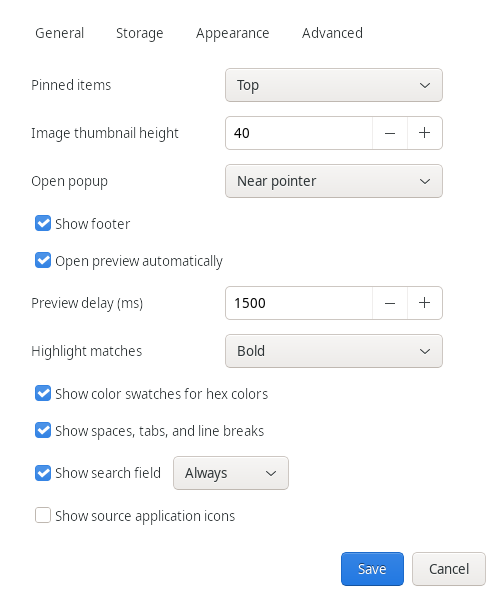
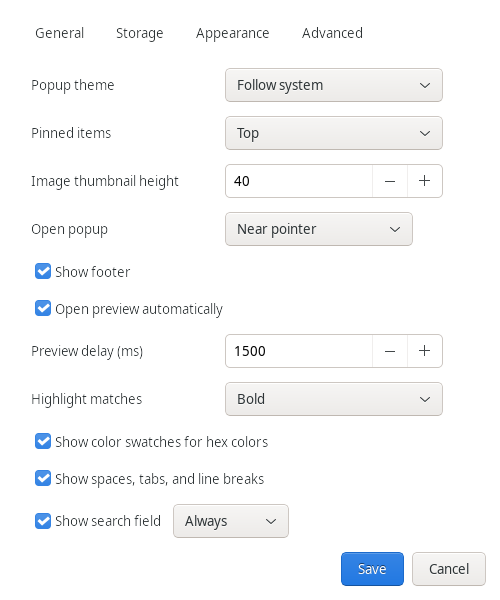
Follow desktop appearance with light and dark popup themes

diff --git a/linuxxy.py b/linuxxy.py
@@ -103,6 +103,9 @@ class App:
         self.window.connect("delete-event", self.hide_window)
         self.window.connect("key-press-event", self.on_key)
         self.install_style()
+        gtk_settings = Gtk.Settings.get_default()
+        gtk_settings.connect("notify::gtk-theme-name", self.system_theme_changed)
+        gtk_settings.connect("notify::gtk-application-prefer-dark-theme", self.system_theme_changed)
         self.popup_layout = Gtk.Box(orientation=Gtk.Orientation.HORIZONTAL, spacing=0)
         self.window.add(self.popup_layout)
         box = Gtk.Box(orientation=Gtk.Orientation.VERTICAL, spacing=0)
@@ -258,35 +261,65 @@ class App:
         return rows
 
     def install_style(self):
-        provider = Gtk.CssProvider()
-        provider.load_from_data(b"""
-            #linuxxy-popup { background: #28292d; border: 1px solid #4a4b50; border-radius: 9px; }
+        theme = self.settings.get("popup_theme")
+        if theme == "system":
+            gtk_settings = Gtk.Settings.get_default()
+            name = (gtk_settings.get_property("gtk-theme-name") or "").lower()
+            dark = gtk_settings.get_property("gtk-application-prefer-dark-theme")
+            theme = "dark" if dark or "dark" in name else "light"
+        colors = ({
+            "popup": "#28292d", "border": "#4a4b50", "muted": "#b8b9bd",
+            "text": "#eeeeee", "selected": "#466ca8", "hover": "#3b3d43",
+            "shortcut": "#a7a8ad", "index": "#aaaaaa", "multi": "#4d624b",
+            "multi_text": "#ffffff", "preview": "#222327", "divider": "#34353a",
+            "preview_muted": "#cccccc", "metadata": "#b6b6ba",
+        } if theme == "dark" else {
+            "popup": "#f3f4f6", "border": "#c6c8cd", "muted": "#64676f",
+            "text": "#25272d", "selected": "#4c78b9", "hover": "#e2e5e9",
+            "shortcut": "#737780", "index": "#747780", "multi": "#d3e8d4",
+            "multi_text": "#244a2b", "preview": "#eceef1", "divider": "#d3d5da",
+            "preview_muted": "#555963", "metadata": "#646870",
+        })
+        css = """
+            #linuxxy-popup { background: @popup@; border: 1px solid @border@; border-radius: 9px; }
+            #linuxxy-popup separator { background: @border@; }
             #linuxxy-search { min-height: 30px; margin: 2px 2px 4px 2px; }
-            #linuxxy-preview-toggle { min-width: 24px; padding: 0 2px; color: #b8b9bd; }
-            #linuxxy-title { color: #b8b9bd; font-size: 12px; }
+            #linuxxy-preview-toggle { min-width: 24px; padding: 0 2px; color: @muted@; }
+            #linuxxy-title { color: @muted@; font-size: 12px; }
             #linuxxy-list, #linuxxy-list > row { background: transparent; }
             #linuxxy-list > row { min-height: 31px; border-radius: 5px; }
-            #linuxxy-list > row label { color: #eeeeee; }
-            box.linuxxy-selected { background-color: #466ca8; border-radius: 5px; color: white; }
-            #linuxxy-footer button { min-height: 24px; padding: 1px 9px; font-size: 12px; color: #eee; }
-            #linuxxy-footer button:hover { background: #3b3d43; border-radius: 5px; }
-            #linuxxy-footer-shortcut { color: #a7a8ad; font-size: 10px; }
-            #linuxxy-index { color: #aaa; font-size: 10px; min-width: 16px; }
-            box.linuxxy-multi-selected { background-color: #4d624b; border-radius: 5px; color: white; }
+            #linuxxy-list > row label { color: @text@; }
+            box.linuxxy-selected { background-color: @selected@; border-radius: 5px; }
+            #linuxxy-list > row box.linuxxy-selected label { color: white; }
+            #linuxxy-footer button { min-height: 24px; padding: 1px 9px; font-size: 12px; color: @text@; }
+            #linuxxy-footer button:hover { background: @hover@; border-radius: 5px; }
+            #linuxxy-footer-shortcut { color: @shortcut@; font-size: 10px; }
+            #linuxxy-index { color: @index@; font-size: 10px; min-width: 16px; }
+            box.linuxxy-multi-selected { background-color: @multi@; border-radius: 5px; }
+            #linuxxy-list > row box.linuxxy-multi-selected label { color: @multi_text@; }
             #linuxxy-color-swatch { border: 1px solid #888; border-radius: 2px; }
-            #linuxxy-preview { background: #222327; border-left: 1px solid #4a4b50; }
-            #linuxxy-preview.left { border-left: none; border-right: 1px solid #4a4b50; }
-            #linuxxy-preview-divider { background: #34353a; }
-            #linuxxy-preview-heading { color: #cccccc; font-size: 11px; }
-            #linuxxy-preview button { color: #cccccc; }
-            #linuxxy-preview-metadata { color: #b6b6ba; font-size: 11px; }
+            #linuxxy-preview { background: @preview@; border-left: 1px solid @border@; }
+            #linuxxy-preview.left { border-left: none; border-right: 1px solid @border@; }
+            #linuxxy-preview-divider { background: @divider@; }
+            #linuxxy-preview-heading { color: @preview_muted@; font-size: 11px; }
+            #linuxxy-preview button { color: @preview_muted@; }
+            #linuxxy-preview-metadata { color: @metadata@; font-size: 11px; }
             #linuxxy-preview textview, #linuxxy-preview textview text {
-                background: #222327; color: #eeeeee;
+                background: @preview@; color: @text@;
             }
-        """)
-        Gtk.StyleContext.add_provider_for_screen(
-            Gdk.Screen.get_default(), provider, Gtk.STYLE_PROVIDER_PRIORITY_APPLICATION
-        )
+        """
+        for key, value in colors.items():
+            css = css.replace(f"@{key}@", value)
+        if not hasattr(self, "style_provider"):
+            self.style_provider = Gtk.CssProvider()
+            Gtk.StyleContext.add_provider_for_screen(
+                Gdk.Screen.get_default(), self.style_provider,
+                Gtk.STYLE_PROVIDER_PRIORITY_APPLICATION)
+        self.style_provider.load_from_data(css.encode())
+
+    def system_theme_changed(self, *_):
+        if self.settings.get("popup_theme") == "system":
+            self.install_style()
 
     def on_clipboard_change(self, *_):
         GLib.idle_add(self.capture, time.monotonic() > self.ignore_own_change_until)
@@ -1435,14 +1468,21 @@ class App:
         sort_by.set_active_id(self.settings.get("sort_by"))
         field(grids["Storage"], 5, "Sort by", sort_by)
 
+        popup_theme = Gtk.ComboBoxText()
+        popup_theme.set_name("linuxxy-popup-theme-setting")
+        for key, label in (("system", "Follow system"), ("light", "Light"),
+                           ("dark", "Dark")):
+            popup_theme.append(key, label)
+        popup_theme.set_active_id(self.settings.get("popup_theme"))
+        field(grids["Appearance"], 0, "Popup theme", popup_theme)
         pins_position = Gtk.ComboBoxText()
         pins_position.append("top", "Top")
         pins_position.append("bottom", "Bottom")
         pins_position.set_active_id(self.settings.get("pins_position"))
-        field(grids["Appearance"], 0, "Pinned items", pins_position)
+        field(grids["Appearance"], 1, "Pinned items", pins_position)
         image_height = Gtk.SpinButton.new_with_range(1, 200, 1)
         image_height.set_value(self.settings.get("image_max_height"))
-        field(grids["Appearance"], 1, "Image thumbnail height", image_height)
+        field(grids["Appearance"], 2, "Image thumbnail height", image_height)
         position = Gtk.ComboBoxText()
         for key, label in (("cursor", "Near pointer"), ("status_icon", "At tray icon"),
                            ("active_window", "Center of active window"),
@@ -1495,30 +1535,30 @@ class App:
 
         position.connect("changed", update_position_controls)
         update_position_controls()
-        field(grids["Appearance"], 2, "Open popup", position_controls)
+        field(grids["Appearance"], 3, "Open popup", position_controls)
         show_footer = Gtk.CheckButton(label="Show footer")
         show_footer.set_active(self.settings.get("show_footer"))
-        grids["Appearance"].attach(show_footer, 0, 3, 2, 1)
+        grids["Appearance"].attach(show_footer, 0, 4, 2, 1)
         auto_preview = Gtk.CheckButton(label="Open preview automatically")
         auto_preview.set_active(self.settings.get("open_preview_automatically"))
-        grids["Appearance"].attach(auto_preview, 0, 4, 2, 1)
+        grids["Appearance"].attach(auto_preview, 0, 5, 2, 1)
         preview_delay = Gtk.SpinButton.new_with_range(200, 100000, 100)
         preview_delay.set_value(self.settings.get("preview_delay_ms"))
         preview_delay.set_sensitive(auto_preview.get_active())
         auto_preview.connect("toggled", lambda button: preview_delay.set_sensitive(button.get_active()))
-        field(grids["Appearance"], 5, "Preview delay (ms)", preview_delay)
+        field(grids["Appearance"], 6, "Preview delay (ms)", preview_delay)
         highlight_match = Gtk.ComboBoxText()
         for key, name in (("bold", "Bold"), ("italic", "Italic"),
                           ("underline", "Underline"), ("color", "Color")):
             highlight_match.append(key, name)
         highlight_match.set_active_id(self.settings.get("highlight_match"))
-        field(grids["Appearance"], 6, "Highlight matches", highlight_match)
+        field(grids["Appearance"], 7, "Highlight matches", highlight_match)
         color_swatch = Gtk.CheckButton(label="Show color swatches for hex colors")
         color_swatch.set_active(self.settings.get("show_hex_color_swatch"))
-        grids["Appearance"].attach(color_swatch, 0, 7, 2, 1)
+        grids["Appearance"].attach(color_swatch, 0, 8, 2, 1)
         special_symbols = Gtk.CheckButton(label="Show spaces, tabs, and line breaks")
         special_symbols.set_active(self.settings.get("show_special_symbols"))
-        grids["Appearance"].attach(special_symbols, 0, 8, 2, 1)
+        grids["Appearance"].attach(special_symbols, 0, 9, 2, 1)
         search_display = Gtk.Box(spacing=8)
         show_search = Gtk.CheckButton(label="Show search field")
         show_search.set_active(self.settings.get("show_search_field"))
@@ -1530,13 +1570,13 @@ class App:
         search_visibility.set_sensitive(show_search.get_active())
         show_search.connect("toggled", lambda button: search_visibility.set_sensitive(button.get_active()))
         search_display.pack_start(search_visibility, False, False, 0)
-        grids["Appearance"].attach(search_display, 0, 9, 2, 1)
+        grids["Appearance"].attach(search_display, 0, 10, 2, 1)
         application_icons = Gtk.CheckButton(label="Show source application icons")
         application_icons.set_active(self.settings.get("show_application_icons"))
-        grids["Appearance"].attach(application_icons, 0, 10, 2, 1)
+        grids["Appearance"].attach(application_icons, 0, 11, 2, 1)
         show_title = Gtk.CheckButton(label="Show title before search field")
         show_title.set_active(self.settings.get("show_title"))
-        grids["Appearance"].attach(show_title, 0, 11, 2, 1)
+        grids["Appearance"].attach(show_title, 0, 12, 2, 1)
         popup_width = Gtk.SpinButton.new_with_range(320, 1000, 10)
         popup_width.set_name("linuxxy-popup-width-setting")
         popup_width.set_value(self.settings.get("popup_width"))
@@ -1548,7 +1588,7 @@ class App:
         window_size.pack_start(popup_width, False, False, 0)
         window_size.pack_start(Gtk.Label(label="Height limit"), False, False, 0)
         window_size.pack_start(popup_height, False, False, 0)
-        grids["Appearance"].attach(window_size, 0, 12, 2, 1)
+        grids["Appearance"].attach(window_size, 0, 13, 2, 1)
         show_tray = Gtk.CheckButton(label="Show tray icon")
         show_tray.set_name("linuxxy-show-tray-setting")
         show_tray.set_active(self.settings.get("show_tray_icon"))
@@ -1563,11 +1603,11 @@ class App:
         tray_controls = Gtk.Box(spacing=8)
         tray_controls.pack_start(show_tray, False, False, 0)
         tray_controls.pack_start(tray_icon, False, False, 0)
-        grids["Appearance"].attach(tray_controls, 0, 13, 2, 1)
+        grids["Appearance"].attach(tray_controls, 0, 14, 2, 1)
         show_recent = Gtk.CheckButton(label="Show recent copy in tray tooltip")
         show_recent.set_name("linuxxy-tray-recent-setting")
         show_recent.set_active(self.settings.get("show_recent_copy_in_tray"))
-        grids["Appearance"].attach(show_recent, 0, 14, 2, 1)
+        grids["Appearance"].attach(show_recent, 0, 15, 2, 1)
         pause_monitoring = Gtk.CheckButton(label="Pause clipboard monitoring")
         pause_monitoring.set_name("linuxxy-pause-monitoring-setting")
         pause_monitoring.set_active(self.settings.get("monitoring_paused"))
@@ -1631,6 +1671,7 @@ class App:
                 ("pins_position", pins_position.get_active_id()),
                 ("popup_position", position.get_active_id()),
                 ("popup_screen", int(screen_choice.get_active_id())),
+                ("popup_theme", popup_theme.get_active_id()),
                 ("popup_width", popup_width.get_value_as_int()),
                 ("popup_max_height", popup_height.get_value_as_int()),
                 ("show_footer", show_footer.get_active()),
@@ -1656,6 +1697,7 @@ class App:
             if reset_last_position[0]:
                 self.settings.set("popup_last_position", None, save=False)
             self.settings.save()
+            self.install_style()
             self.paused = self.settings.get("monitoring_paused")
             self.update_tray()
             self.content_width = self.settings.get("popup_width")

diff --git a/tests/theme_smoke.py b/tests/theme_smoke.py
@@ -1,0 +1,117 @@
+"""Switch the real popup between system, light, and dark appearance."""
+
+import os
+import sys
+import tempfile
+import time
+from pathlib import Path
+
+import gi
+gi.require_version('Gtk', '3.0')
+gi.require_version('Gdk', '3.0')
+gi.require_version('GdkX11', '3.0')
+gi.require_version('GdkPixbuf', '2.0')
+from gi.repository import Gdk, GdkPixbuf, GdkX11, GLib, Gtk
+
+from ui_smoke import screenshot
+
+ROOT = Path(__file__).resolve().parents[1]
+sys.path.insert(0, str(ROOT))
+from history import History
+from linuxxy import App
+from settings import Settings
+
+
+def pump(seconds=.35):
+    end = time.monotonic() + seconds
+    while time.monotonic() < end:
+        GLib.MainContext.default().iteration(False)
+        time.sleep(.01)
+
+
+def descend(widget):
+    yield widget
+    if isinstance(widget, Gtk.Container):
+        for child in widget.get_children():
+            yield from descend(child)
+
+
+def background_brightness(name):
+    pixbuf = GdkPixbuf.Pixbuf.new_from_file(str(ROOT / 'screenshots' / name))
+    x, y = 3, 45
+    offset = y * pixbuf.get_rowstride() + x * pixbuf.get_n_channels()
+    return sum(pixbuf.get_pixels()[offset:offset + 3]) / 3
+
+
+def choose_theme(app, name):
+    app.show_settings()
+    pump()
+    control = next(w for w in descend(app.preferences)
+                   if w.get_name() == 'linuxxy-popup-theme-setting')
+    control.set_active_id(name)
+    save = next(w for w in descend(app.preferences)
+                if isinstance(w, Gtk.Button) and w.get_label() == 'Save')
+    save.clicked()
+    pump()
+    assert Settings().get('popup_theme') == name
+    app.toggle_window()
+    pump(.5)
+
+
+clipboard = Gtk.Clipboard.get(Gdk.SELECTION_CLIPBOARD)
+original_clipboard = clipboard.wait_for_text()
+gtk_settings = Gtk.Settings.get_default()
+original_theme = gtk_settings.get_property('gtk-theme-name')
+original_dark = gtk_settings.get_property('gtk-application-prefer-dark-theme')
+clipboard.set_text(' ', -1)
+clipboard.store()
+try:
+    gtk_settings.set_property('gtk-theme-name', 'Adwaita')
+    gtk_settings.set_property('gtk-application-prefer-dark-theme', False)
+    with tempfile.TemporaryDirectory() as directory:
+        os.environ.update(XDG_DATA_HOME=directory, XDG_CONFIG_HOME=directory,
+                          XDG_RUNTIME_DIR=directory, XDG_SESSION_TYPE='x11')
+        history = History(Path(directory) / 'linuxxy/history.sqlite')
+        history.add('Theme sample first')
+        history.add('Theme sample second')
+        history.pin(history.list()[0][0], True)
+        history.close()
+        settings = Settings()
+        settings.set('popup_position', 'screen_center')
+        settings.set('open_preview_automatically', False)
+        app = App()
+        try:
+            app.toggle_window()
+            pump(.5)
+            xid = GdkX11.X11Window.get_xid(app.window.get_window())
+            screenshot(xid, 'ui_theme_system_light.png')
+            assert background_brightness('ui_theme_system_light.png') > 180
+
+            choose_theme(app, 'dark')
+            screenshot(xid, 'ui_theme_dark.png')
+            assert background_brightness('ui_theme_dark.png') < 100
+            app.show_preview()
+            pump(.8)
+            assert app.preview is app.preview_pane
+            screenshot(xid, 'ui_theme_dark_preview.png')
+            app.cancel_preview()
+            pump(.5)
+
+            choose_theme(app, 'light')
+            screenshot(xid, 'ui_theme_light.png')
+            assert background_brightness('ui_theme_light.png') > 180
+
+            choose_theme(app, 'system')
+            gtk_settings.set_property('gtk-application-prefer-dark-theme', True)
+            pump(.7)
+            screenshot(xid, 'ui_theme_system_dark.png')
+            assert background_brightness('ui_theme_system_dark.png') < 100
+            print('System, light, dark, persistence, and live theme changes passed')
+        finally:
+            app.quit()
+finally:
+    gtk_settings.set_property('gtk-theme-name', original_theme)
+    gtk_settings.set_property('gtk-application-prefer-dark-theme', original_dark)
+    if original_clipboard is not None:
+        clipboard.set_text(original_clipboard, -1)
+        clipboard.store()

diff --git a/settings.py b/settings.py
@@ -20,6 +20,7 @@ DEFAULTS = {
     "monitoring_paused": False,
     "popup_position": "cursor",
     "popup_screen": 0,
+    "popup_theme": "system",
     "popup_last_position": None,
     "launch_at_login": False,
     "search_mode": "exact",
@@ -103,6 +104,9 @@ class Settings:
         elif key == "popup_screen":
             if type(value) is not int or not 0 <= value <= 32:
                 raise ValueError("Invalid popup screen")
+        elif key == "popup_theme":
+            if value not in ("system", "light", "dark"):
+                raise ValueError("Invalid popup theme")
         elif key == "popup_last_position":
             if value is not None and (type(value) is not list or len(value) != 2 or
                                       any(type(coordinate) is not int for coordinate in value)):

diff --git a/README.md b/README.md
@@ -95,8 +95,8 @@ search mode (exact, fuzzy, regex, or mixed), match highlighting (bold, italic,
 underline, or color), pinned item position, popup position (pointer, tray icon,
 active window, screen center, or last position), a screen choice for center and
 last-position mode on multi-monitor desktops, a reset for the saved position,
-automatic preview
-and its delay, image thumbnail height, hex color swatches, visible whitespace
+popup theme (follow system, light, or dark), automatic preview and its delay,
+image thumbnail height, hex color swatches, visible whitespace
 symbols, search field visibility (always, while typing, or hidden), footer
 visibility, an optional title before the search field, optional source application
 icons, popup width and height limit, clear-on-quit behavior, optional system
@@ -160,6 +160,9 @@ position falls back to the pointer.
 The [screen settings test](tests/screen_settings_smoke.py) exercises the screen
 picker and last-position reset in the real GTK settings window, using two
 simulated monitor work areas to check placement and persistence.
+The [theme test](tests/theme_smoke.py) switches the popup among system, light,
+and dark modes in the real settings UI, measures the rendered background, and
+checks a live system theme change.
 The [shortcut cycle test](tests/shortcut_cycle_smoke.py) exercises held modifiers,
 repeated opening-key presses, and selection on release with real X11 events.
 The [action shortcut test](tests/action_shortcuts_smoke.py) records new pin,
